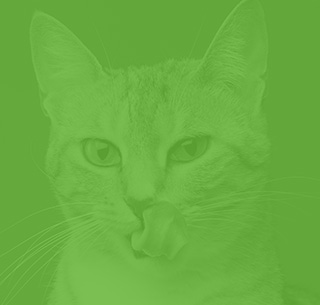
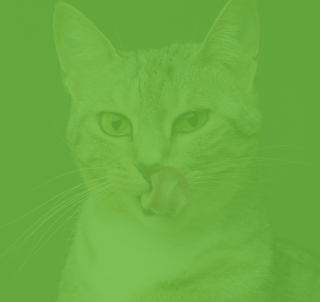
Added retina and fixed pp

diff --git a/source/index.html b/source/index.html
@@ -117,20 +117,19 @@
         <div class="example__slider slider">
           <ul class="slider__list">
             <li class="slider__item">
-              <img src="img/before-mobile.png" width="311" height="232" alt="До Cat Energy Slim">
-              <!--<picture class="product-card__image-wrapper">
+              <picture>
                 <source type="image/webp" media="(min-width: 768px)"
-                  srcset="img/before-mobile.webp 1x, img/before-mobile@2x.webp 2x">
-                <source type="image/webp" srcset="img/catalog-1-500-mobile.webp 1x, img/catalog-1-500-mobile@2x.webp 2x">
-                <source media="(min-width: 768px)" srcset="img/catalog-1-500-tablet.jpg 1x, img/catalog-1-500-tablet@2x.jpg 2x">
+                  srcset="img/cat-fat.webp 1x, img/cat-fat@2x.webp 2x">
+                <source media="(min-width: 768px)" srcset="img/cat-fat.png 1x, img/cat-fat@2x.png 2x">
+                <source type="image/webp" srcset="img/before-mobile@1x.webp 1x, img/before-mobile@2x.webp 2x">
                 <img
                   class="product-card__image"
-                  src="img/catalog-1-500-mobile.png"
-                  srcset="img/catalog-1-500-mobile@2x.png 2x"
-                  alt="Cat Energy PRO 500 г."
+                  src="img/before-mobile@1x.png"
+                  srcset="img/before-mobile@2x.png 2x"
+                  alt="До Cat Energy Slim"
                   width="140"
                   height="112">
-              </picture>-->
+              </picture>
             </li>
             <li class="slider__item">
               <img src="img/after-mobile.png" width="251" height="240" alt="После Cat Energy Slim">

diff --git a/source/sass/blocks/about.scss b/source/sass/blocks/about.scss
@@ -33,6 +33,10 @@
   grid-column: 1 / -1;
   grid-row: 1 / span 2;
 
+  @media (-webkit-min-device-pixel-ratio: 2), (min-resolution: 192dpi) {
+    background-image: url("../../img/index-background-mobile@2x.png");
+  }
+
   @media (min-width: $tablet-width) {
     display: none;
   }
@@ -41,6 +45,11 @@
     display: block;
     grid-column: 4 / span 3;
     grid-row: 1 / span 3;
+    background-image: url("../../img/index-background-desktop.png");
+
+    @media (-webkit-min-device-pixel-ratio: 2), (min-resolution: 192dpi) {
+      background-image: url("../../img/index-background-desktop@2x.png");
+    }
   }
 }
 
@@ -54,7 +63,6 @@
 
   @media (min-width: $desktop-width) {
     align-self: end;
-    margin-bottom: 24px;
   }
 }
 

diff --git a/source/sass/blocks/example.scss b/source/sass/blocks/example.scss
@@ -189,7 +189,8 @@
     justify-self: start;
     flex-direction: row;
     justify-content: space-between;
-    margin-top: 10px;
+    margin-top: 50px;
+    margin-bottom: 0;
   }
 }
 
@@ -210,5 +211,6 @@
 
   @media (min-width: $desktop-width) {
     margin-top: 0;
+    margin-bottom: 40px;
   }
 }

diff --git a/source/sass/blocks/directions.scss b/source/sass/blocks/directions.scss
@@ -20,8 +20,6 @@
   @media (min-width: $desktop-width) {
     grid-template-columns: repeat(2, 1fr);
     grid-gap: 80px;
-    margin-left: 20px;
-    margin-right: 20px;
   }
 }
 

diff --git a/source/sass/blocks/how-it-work.scss b/source/sass/blocks/how-it-work.scss
@@ -23,7 +23,6 @@
 
   @media (min-width: $tablet-width) {
     margin-top: 2px;
-    margin-left: 21px;
     font-size: 60px;
     line-height: 60px;
   }
